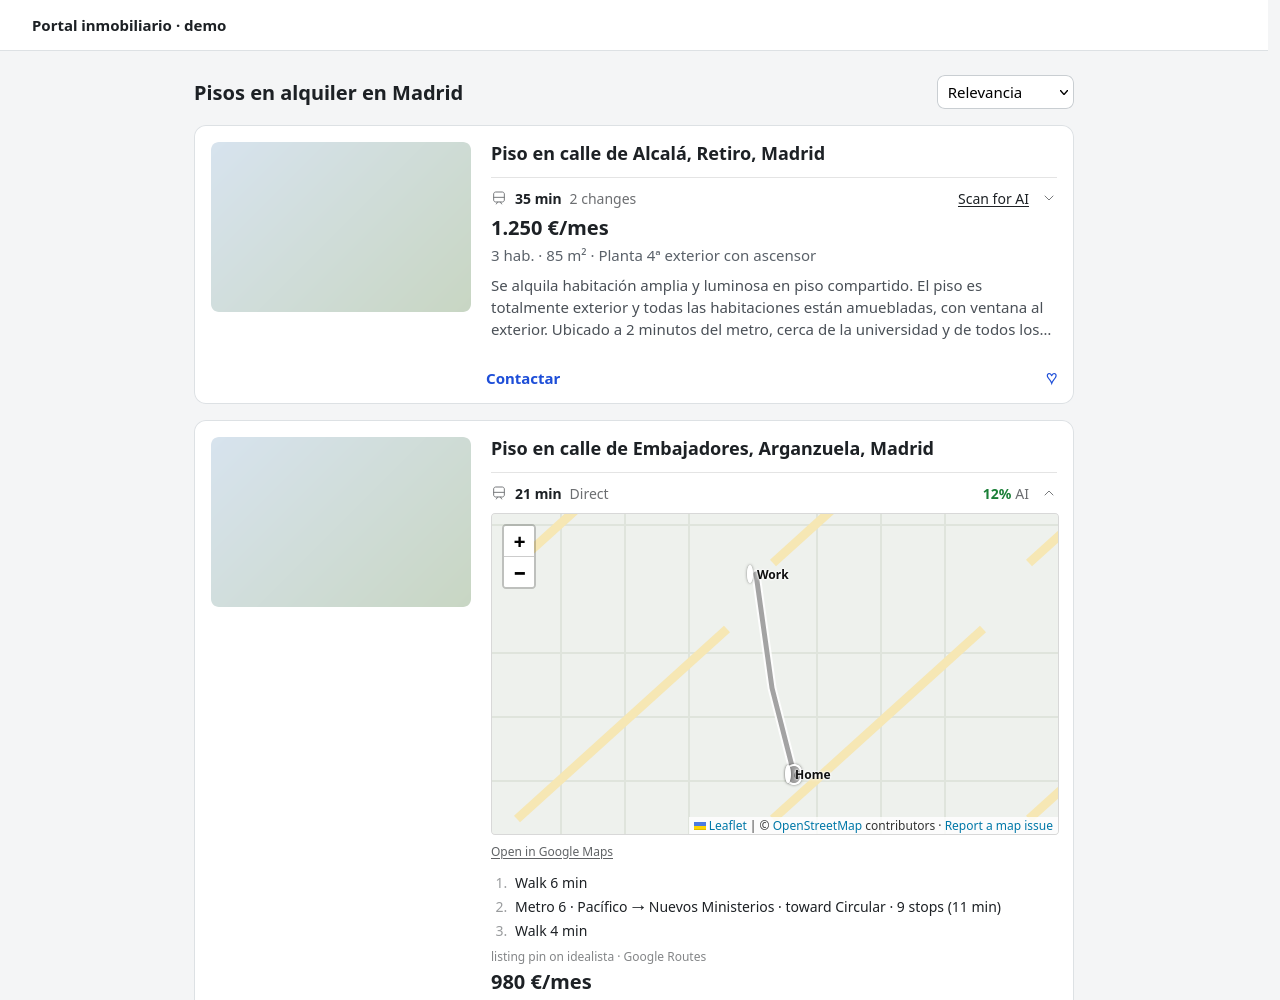
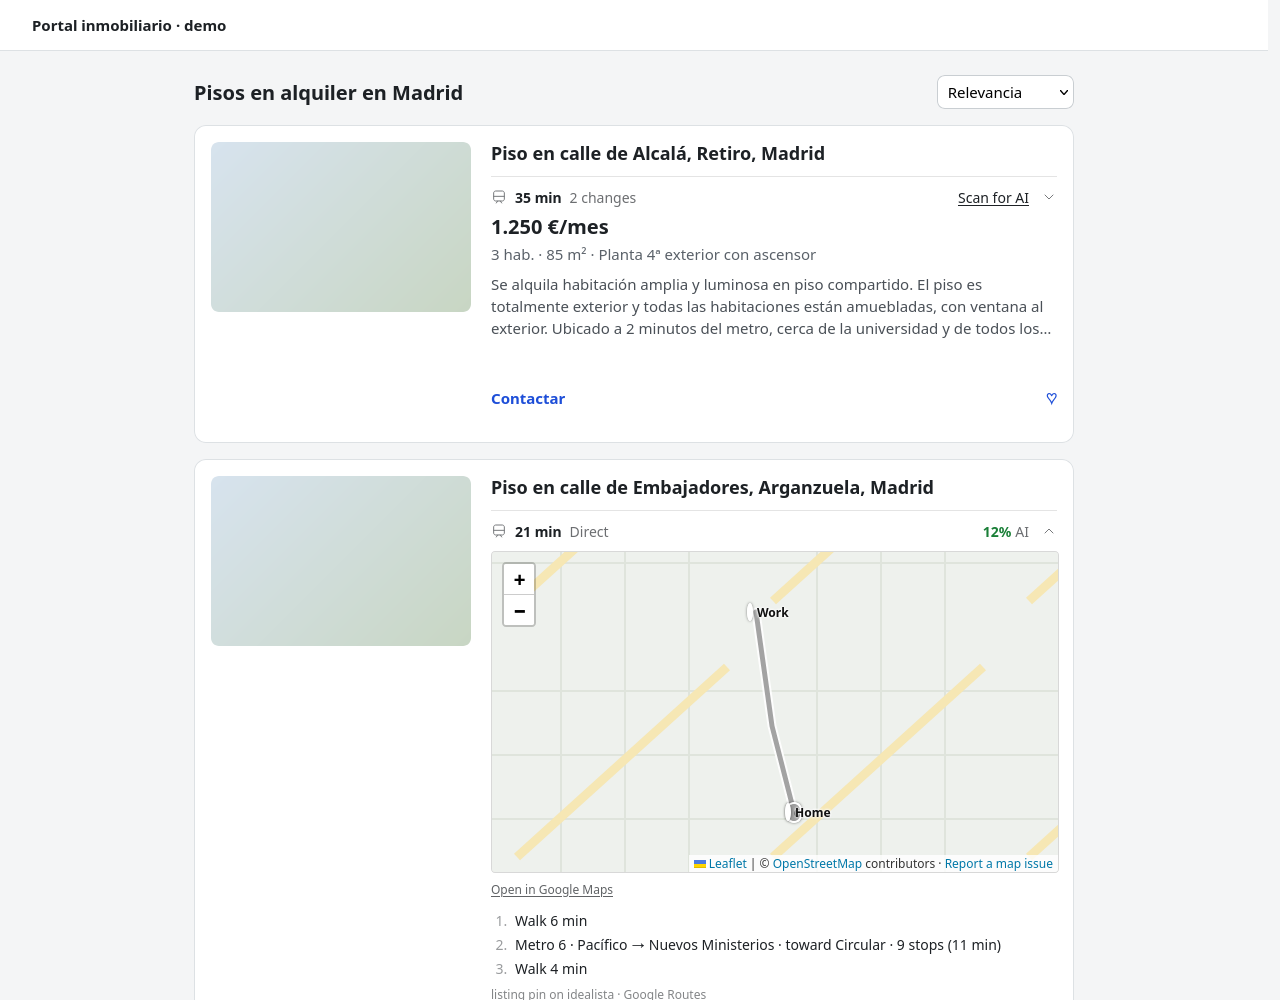
Fix footer overlap: the text column reserves room for idealista's 56px toolbar
Computed styles from a real card showed the column is a flex box with its toolbar absolutely pinned to the bottom, and the description as the last item; the column needs 72px of bottom padding (toolbar plus gap) once it grows to fit our row. The previous attempts padded the card or used 48px. The mock page now reproduces the real structure.

diff --git a/tools/screenshots/results.html b/tools/screenshots/results.html
@@ -7,22 +7,23 @@ header{background:#fff;border-bottom:1px solid #dde1e4;padding:14px 32px;font-we
 main{max-width:880px;margin:24px auto;padding:0 24px}
 .bar{display:flex;justify-content:space-between;align-items:center;margin-bottom:16px}.bar h1{font-size:20px;margin:0}
 select{font:inherit;padding:6px 10px;border:1px solid #c9ced2;border-radius:8px;background:#fff}
-article.item{position:relative;display:flex;gap:20px;background:#fff;border:1px solid #dde1e4;border-radius:12px;padding:16px;margin-bottom:16px}
+article.item{display:flex;gap:20px;background:#fff;border:1px solid #dde1e4;border-radius:12px;padding:16px;margin-bottom:16px}
 .pic{flex:none;width:260px;height:170px;border-radius:8px;background:linear-gradient(135deg,#d7e3ee,#c8d6c3)}
-.col{flex:1;min-width:0}.item-link{font-size:18px;font-weight:600;color:#1d2125;text-decoration:none}
+.item-info-container{flex:1;min-width:0;position:relative;display:flex;flex-direction:column}
+.item-link{order:0}.price{order:2}.det{order:4}.desc{order:4}
+.item-toolbar{position:absolute;left:0;right:0;bottom:0;height:56px;order:5;display:flex;justify-content:space-between;align-items:center;color:#1d4ed8;font-weight:600}.item-link{font-size:18px;font-weight:600;color:#1d2125;text-decoration:none}
 .desc{margin-top:8px;color:#4a5057;display:-webkit-box;-webkit-line-clamp:3;-webkit-box-orient:vertical;overflow:hidden}
-.foot{position:absolute;left:291px;right:16px;bottom:14px;display:flex;justify-content:space-between;color:#1d4ed8;font-weight:600}
 .price{font-size:20px;font-weight:700;margin:6px 0}.det{color:#5a6169}
 </style></head><body>
 <header>Portal inmobiliario · demo</header>
 <main><div class="bar"><h1>Pisos en alquiler en Madrid</h1>
 <select aria-label="Ordenar"><option>Relevancia</option><option>Más recientes</option><option>Más baratos</option></select></div>
-<article class="item" data-element-id="105000001"><div class="pic"></div><div class="col"><div class="item-info-container"><a class="item-link" href="/inmueble/105000001/" title="Piso en calle de Alcalá, Retiro, Madrid">Piso en calle de Alcalá, Retiro, Madrid</a></div>
-<div class="price">1.250 €/mes</div><div class="det">3 hab. · 85 m² · Planta 4ª exterior con ascensor<p class="desc">Se alquila habitación amplia y luminosa en piso compartido. El piso es totalmente exterior y todas las habitaciones están amuebladas, con ventana al exterior. Ubicado a 2 minutos del metro, cerca de la universidad y de todos los servicios.</p></div></div><div class="foot"><span>Contactar</span><span>♡</span></div></article>
-<article class="item" data-element-id="105000002"><div class="pic"></div><div class="col"><div class="item-info-container"><a class="item-link" href="/inmueble/105000002/" title="Piso en calle de Embajadores, Arganzuela, Madrid">Piso en calle de Embajadores, Arganzuela, Madrid</a></div>
-<div class="price">980 €/mes</div><div class="det">2 hab. · 62 m² · Planta 2ª exterior sin ascensor<p class="desc">Se alquila habitación amplia y luminosa en piso compartido. El piso es totalmente exterior y todas las habitaciones están amuebladas, con ventana al exterior. Ubicado a 2 minutos del metro, cerca de la universidad y de todos los servicios.</p></div></div><div class="foot"><span>Contactar</span><span>♡</span></div></article>
-<article class="item" data-element-id="105000003"><div class="pic"></div><div class="col"><div class="item-info-container"><a class="item-link" href="/inmueble/105000003/" title="Piso en calle de Bravo Murillo, Tetuán, Madrid">Piso en calle de Bravo Murillo, Tetuán, Madrid</a></div>
-<div class="price">1.100 €/mes</div><div class="det">2 hab. · 70 m² · Planta 5ª exterior con ascensor<p class="desc">Se alquila habitación amplia y luminosa en piso compartido. El piso es totalmente exterior y todas las habitaciones están amuebladas, con ventana al exterior. Ubicado a 2 minutos del metro, cerca de la universidad y de todos los servicios.</p></div></div><div class="foot"><span>Contactar</span><span>♡</span></div></article>
-<article class="item" data-element-id="105000004"><div class="pic"></div><div class="col"><div class="item-info-container"><a class="item-link" href="/inmueble/105000004/" title="Piso en calle de Segovia, Centro, Madrid">Piso en calle de Segovia, Centro, Madrid</a></div>
-<div class="price">1.490 €/mes</div><div class="det">3 hab. · 92 m² · Planta 3ª interior con ascensor<p class="desc">Se alquila habitación amplia y luminosa en piso compartido. El piso es totalmente exterior y todas las habitaciones están amuebladas, con ventana al exterior. Ubicado a 2 minutos del metro, cerca de la universidad y de todos los servicios.</p></div></div><div class="foot"><span>Contactar</span><span>♡</span></div></article>
+<article class="item" data-element-id="105000001"><div class="pic"></div><div class="item-info-container"><a class="item-link" href="/inmueble/105000001/" title="Piso en calle de Alcalá, Retiro, Madrid">Piso en calle de Alcalá, Retiro, Madrid</a>
+<div class="price">1.250 €/mes</div><div class="det">3 hab. · 85 m² · Planta 4ª exterior con ascensor</div><p class="desc">Se alquila habitación amplia y luminosa en piso compartido. El piso es totalmente exterior y todas las habitaciones están amuebladas, con ventana al exterior. Ubicado a 2 minutos del metro, cerca de la universidad y de todos los servicios.</p><div class="item-toolbar"><span>Contactar</span><span>♡</span></div></div></article>
+<article class="item" data-element-id="105000002"><div class="pic"></div><div class="item-info-container"><a class="item-link" href="/inmueble/105000002/" title="Piso en calle de Embajadores, Arganzuela, Madrid">Piso en calle de Embajadores, Arganzuela, Madrid</a>
+<div class="price">980 €/mes</div><div class="det">2 hab. · 62 m² · Planta 2ª exterior sin ascensor</div><p class="desc">Se alquila habitación amplia y luminosa en piso compartido. El piso es totalmente exterior y todas las habitaciones están amuebladas, con ventana al exterior. Ubicado a 2 minutos del metro, cerca de la universidad y de todos los servicios.</p><div class="item-toolbar"><span>Contactar</span><span>♡</span></div></div></article>
+<article class="item" data-element-id="105000003"><div class="pic"></div><div class="item-info-container"><a class="item-link" href="/inmueble/105000003/" title="Piso en calle de Bravo Murillo, Tetuán, Madrid">Piso en calle de Bravo Murillo, Tetuán, Madrid</a>
+<div class="price">1.100 €/mes</div><div class="det">2 hab. · 70 m² · Planta 5ª exterior con ascensor</div><p class="desc">Se alquila habitación amplia y luminosa en piso compartido. El piso es totalmente exterior y todas las habitaciones están amuebladas, con ventana al exterior. Ubicado a 2 minutos del metro, cerca de la universidad y de todos los servicios.</p><div class="item-toolbar"><span>Contactar</span><span>♡</span></div></div></article>
+<article class="item" data-element-id="105000004"><div class="pic"></div><div class="item-info-container"><a class="item-link" href="/inmueble/105000004/" title="Piso en calle de Segovia, Centro, Madrid">Piso en calle de Segovia, Centro, Madrid</a>
+<div class="price">1.490 €/mes</div><div class="det">3 hab. · 92 m² · Planta 3ª interior con ascensor</div><p class="desc">Se alquila habitación amplia y luminosa en piso compartido. El piso es totalmente exterior y todas las habitaciones están amuebladas, con ventana al exterior. Ubicado a 2 minutos del metro, cerca de la universidad y de todos los servicios.</p><div class="item-toolbar"><span>Contactar</span><span>♡</span></div></div></article>
 <script src="/content.js"></script></main></body></html>

diff --git a/content.css b/content.css
@@ -49,12 +49,11 @@
 .icm-sortstatus { font-size: 12px; opacity: .7; }
 @media (prefers-reduced-motion: reduce) { .icm-chev { transition: none; } }
 
-/* The card's own bottom row (Contactar / Ver teléfono) is absolutely positioned and relies on a fixed height to
-   stay clear of the text above it. With our row inside, the text column gets taller, so keep that row's space. */
+/* idealista's text column is a flex box with a fixed height, and its toolbar (Contactar, Descartar, Guardar: 56px tall) is
+   pinned to the column's bottom edge. The column normally ends 72px below the description; with our row inside it has to
+   grow, so it keeps that room itself (56px toolbar + 16px gap), otherwise the toolbar sits on the description. */
 .icm-host.icm-host { height: auto; max-height: none; overflow: visible; }
-/* The card's own footer (contact button, icons) is pinned to the card's bottom edge. With the card growing to fit our row, that
-   footer lands on the last lines of the text, so the card keeps room for it. Not the title container: the text isn't inside it. */
-article.icm-host.icm-host { padding-bottom: 48px; box-sizing: border-box; }
+.icm-host.icm-host:not(article) { padding-bottom: 72px; box-sizing: border-box; }
 
 .icm-detail { margin: 12px 0 16px; }
 .icm-detail .icm-badge.icm-badge { margin-top: 0; }
